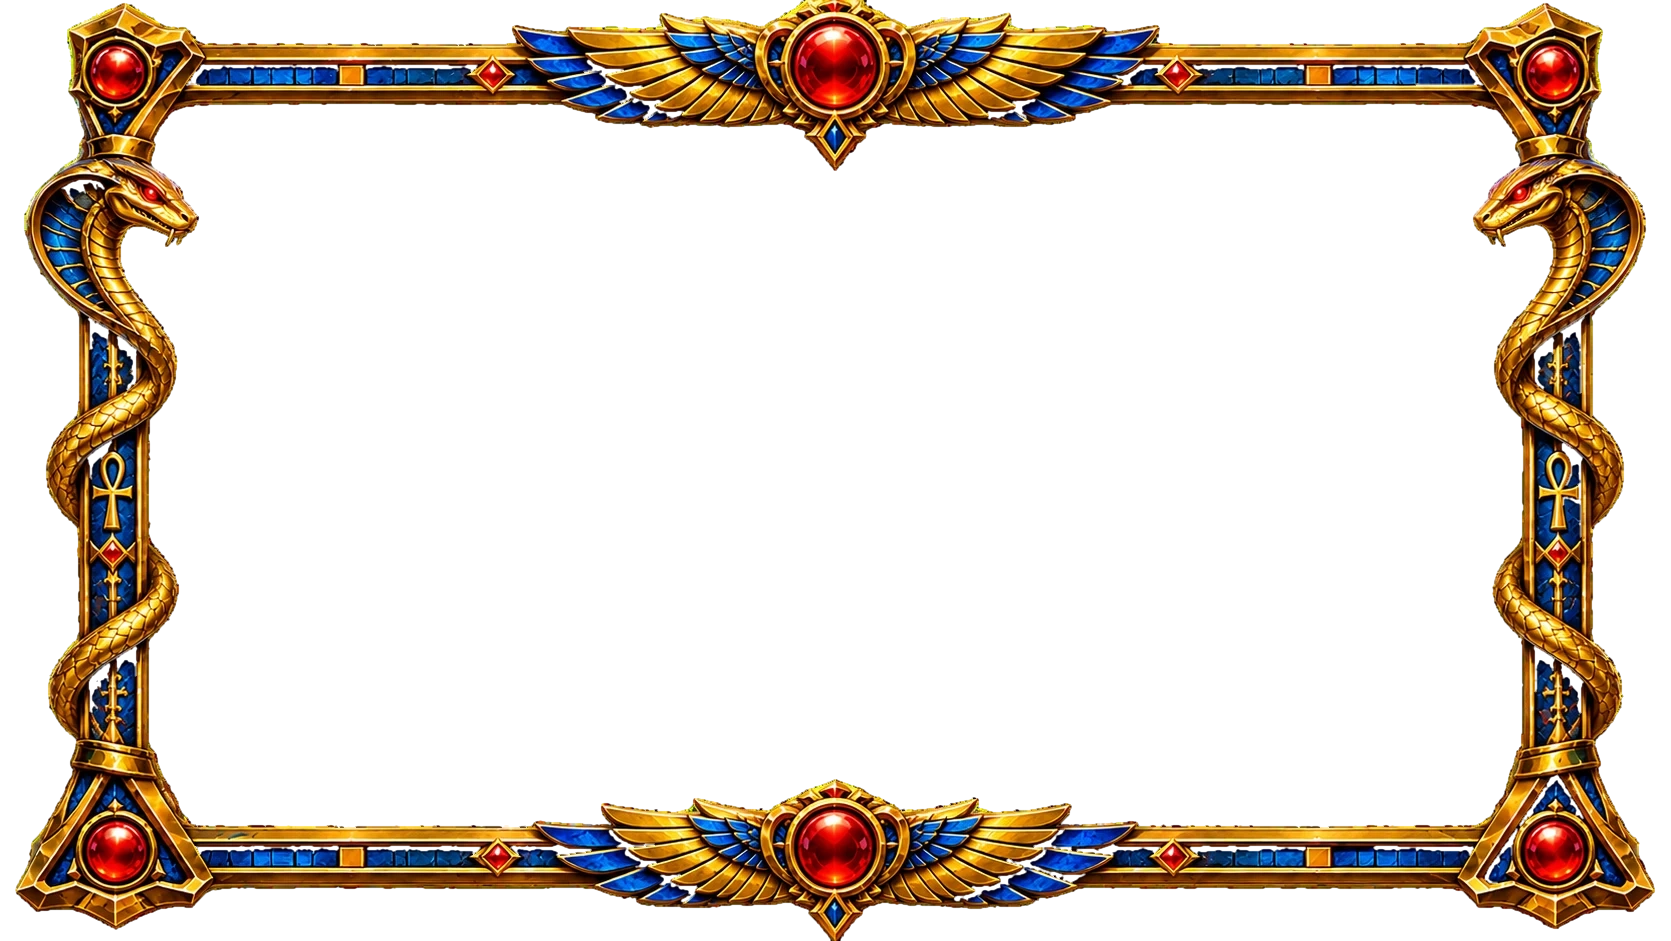
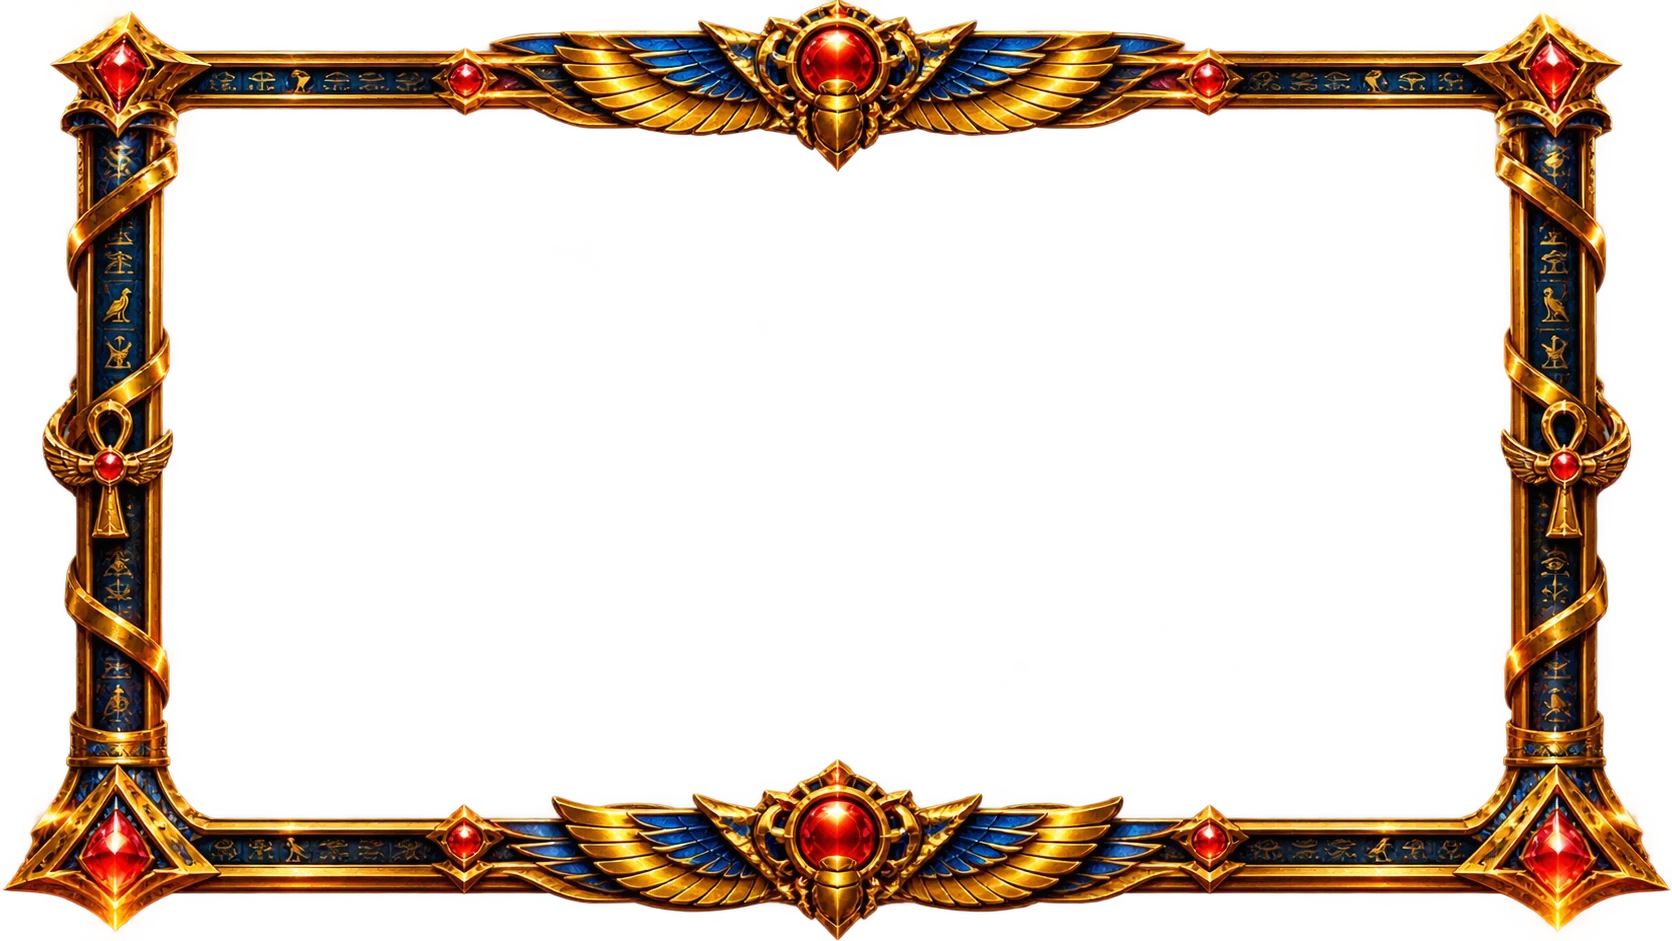
New frame around the reels: ribbon-wrapped lapis pillars, winged ankhs and the winged scarab
The frame's opening, its twelve rubies (corners, crests, rails, ankhs) and the cut of its crest for the big win are set for the new art; both crest rubies glow as great ones.

Changed region(s): [[0.0, 0.0, 1.0, 1.0]]

diff --git a/src/game/textures.ts b/src/game/textures.ts
@@ -27,9 +27,10 @@ export const FRAME_PAD = 40;
 export const FRAME_BLEED = 60;
 /** the art-direction frame (egypt/frame.webp): size, reel window and ruby centres in its pixels */
 export const FRAME_ART = {
-  size: [1671, 941],
-  window: [148, 103, 1375, 723],
-  rubies: [[118, 75], [1552, 76], [118, 850], [1554, 850], [833, 62], [833, 848], [492, 75], [1178, 75], [496, 857], [1172, 857]],
+  size: [1672, 941],
+  window: [163, 110, 1347, 707],
+  // corners, the crests' great rubies, the small ones of the rails, and the two ankhs on the sides
+  rubies: [[118, 77], [1556, 77], [119, 857], [1558, 856], [837, 61], [838, 833], [467, 82], [1209, 82], [464, 846], [1210, 845], [109, 472], [1566, 470]],
 } as const;
 
 export interface SymbolRig {
@@ -138,14 +139,15 @@ function cropFrame(frame: HTMLImageElement | null, x: number, y: number, w: numb
 
 /** The winged ruby of the frame, freed from the rails it grows out of. */
 function cleanCrest(frame: HTMLImageElement | null): HTMLCanvasElement {
-  const c = cropFrame(frame, 515, 0, 645, 172);
+  const c = cropFrame(frame, 486, 0, 704, 178);
   const ctx = c.getContext('2d')!;
-  // the outline of the wing's tips, on the left; the right wing mirrors it round the ruby
-  const stub: [number, number][] = [[-8, 30], [0, 30], [4, 38], [12, 47], [14, 52], [13, 59], [20, 66], [32, 73], [33, 81], [44, 88], [48, 92], [46, 100], [60, 106], [82, 118], [84, 180], [-8, 180]];
+  // the rail runs on behind the wings: cut away under the left wing's lower edge and beyond its tip;
+  // the right wing mirrors it round the ruby
+  const stub: [number, number][] = [[-8, 36], [2, 40], [10, 52], [26, 66], [48, 84], [80, 104], [120, 118], [154, 126], [180, 131], [180, 200], [-8, 200]];
   ctx.globalCompositeOperation = 'destination-out';
   for (const mirror of [false, true]) {
     ctx.beginPath();
-    for (const [x, y] of stub) ctx.lineTo(mirror ? 642 - x : x, y);
+    for (const [x, y] of stub) ctx.lineTo(mirror ? 702 - x : x, y);
     ctx.closePath();
     ctx.fill();
   }

diff --git a/src/game/ReelBoard.ts b/src/game/ReelBoard.ts
@@ -273,7 +273,8 @@ export class ReelBoard extends Container {
     // every ruby of the frame glows and pulses, a little out of phase
     fit.rubies.forEach(([rx, ry], i) => {
       const [x, y] = toBoard(rx, ry);
-      const big = i === 4;
+      // the two great rubies of the crests, top and bottom
+      const big = i === 4 || i === 5;
       const eye = light(x, y, (big ? 70 : i < 4 ? 44 : 22) * k * 2.1, COLORS.infection);
       const flare = light(x, y, (big ? 190 : i < 6 ? 130 : 70) * k, 0xff5a30);
       flare.alpha = 0;
